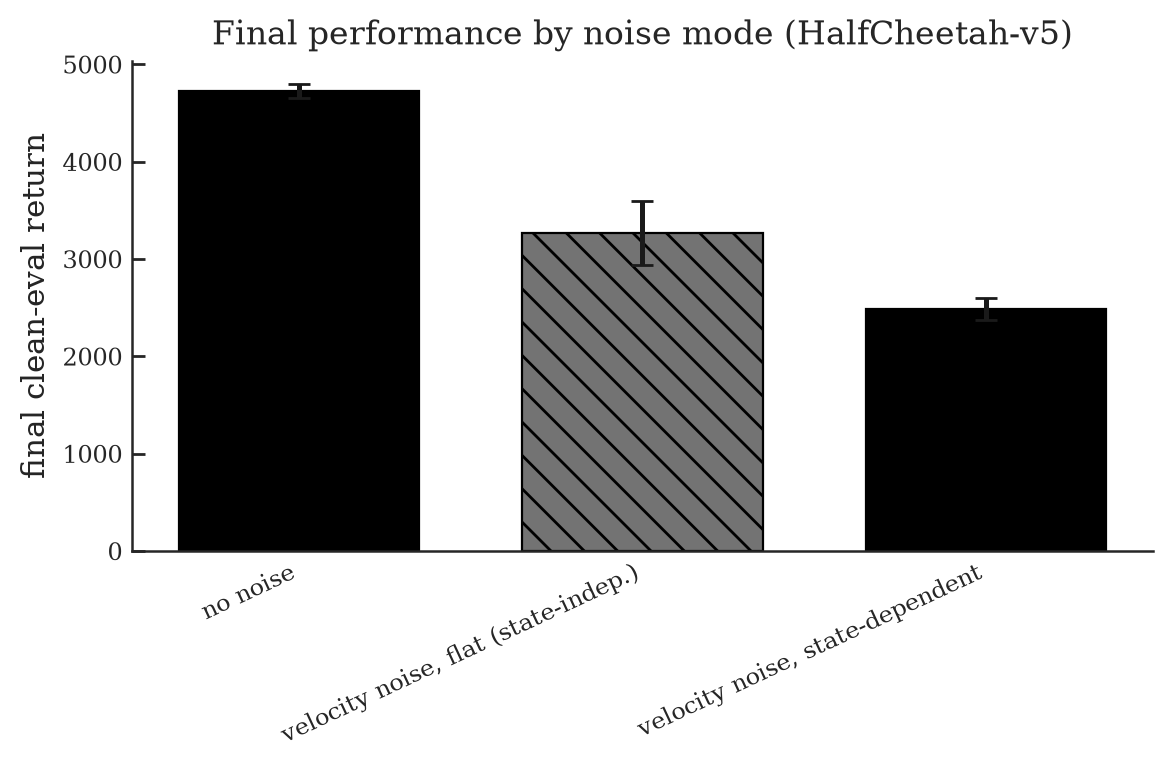
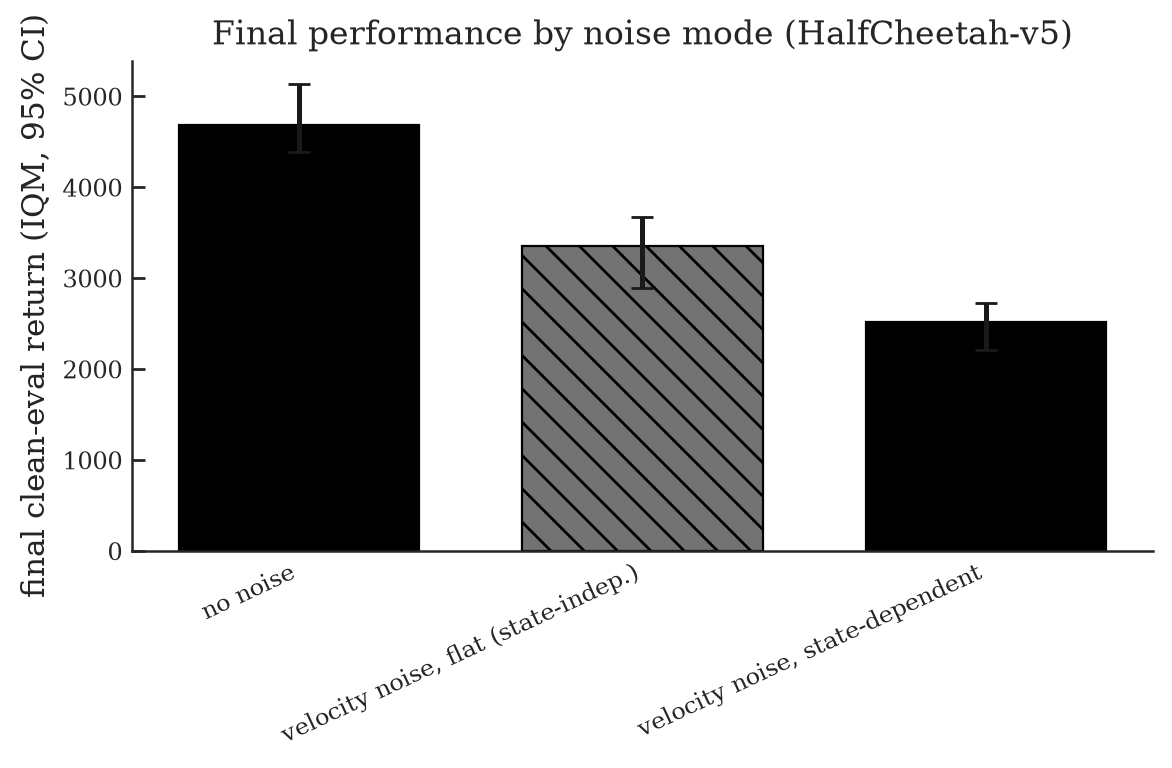
feat: position + 2x2 state-dependence experiments, IQM/bootstrap-CI eval
- Generalize velocity_isolation -> channel_isolation (position + velocity), fix a
  matched-energy confound by excluding non-stationary root-pose channels
- Add combined_isolation for the 2x2 both-sensors design (both-ff/sf/fs/ss)
- Add stats.py (IQM + bootstrap CI) with honest small-n labelling; audit-driven
- Add Evaluation Protocol section; rerun state-dependence at 8 seeds
- Findings: velocity timing significant (72->54%), position negligible, no compounding

diff --git a/src/stochrl/presets.py b/src/stochrl/presets.py
@@ -72,57 +72,100 @@ def realistic_sensors(stats: SignalStats, rho: float = 0.05, n_pos: int | None =
     return N.NoiseModel(dim, scale, specs, record=record)
 
 
-def _speed_gain_fn(vel_idx, vel_scale):
-    """gain(state) = 0.5 + |velocity| / signal_scale, per velocity channel."""
+def _deflection_gain(idx, scale, center):
+    """gain(state) = 0.5 + |x - center| / signal_scale, per channel.
+
+    Concentrates noise where a channel deviates most from its typical value:
+    fast motion for velocities (center ~ 0), large deflections for positions.
+    """
+    idx, scale, center = list(idx), np.asarray(scale), np.asarray(center)
+
     def gain_fn(ref):
-        return 0.5 + np.abs(np.asarray(ref)[vel_idx]) / vel_scale
+        return 0.5 + np.abs(np.asarray(ref)[idx] - center) / scale
     return gain_fn
 
 
-def measure_matched_gain(env, vel_idx, vel_scale, steps=10_000, seed=0):
-    """RMS of the state-dependent speed gain over a random rollout, per channel.
+def _matched_constant_gain(env, gain_fn, n, steps=10_000, seed=0):
+    """RMS of a state-dependent gain over a random rollout, per channel.
 
-    Used to build a state-INDEPENDENT noise with the SAME average injected variance:
-    injected var per step ~ (rho*scale*gain)^2, so a constant gain c = sqrt(E[gain^2])
-    matches the time-averaged variance of the state-dependent version exactly.
+    Lets a state-INDEPENDENT ('flat') noise match the state-dependent one's average
+    injected variance: injected var per step ~ (rho*scale*gain)^2, so a constant
+    gain c = sqrt(E[gain^2]) reproduces the time-averaged variance exactly. The two
+    then differ only in *where* the noise lands, not in how much.
     """
     obs, _ = env.reset(seed=seed)
     env.action_space.seed(seed)
-    gain_fn = _speed_gain_fn(vel_idx, vel_scale)
-    acc, n = np.zeros(len(vel_idx)), 0
+    acc, count = np.zeros(n), 0
     for _ in range(steps):
         obs, _, term, trunc, _ = env.step(env.action_space.sample())
         acc += gain_fn(obs) ** 2
-        n += 1
+        count += 1
         if term or trunc:
             obs, _ = env.reset()
-    return np.sqrt(acc / n)
+    return np.sqrt(acc / count)
 
 
-def velocity_isolation(stats: SignalStats, rho: float, env_id: str, mode: str,
-                       calib_steps: int = 10_000, calib_seed: int = 0,
-                       record: bool = False) -> N.NoiseModel:
-    """Isolate the EFFECT of state-dependence: identical Gaussian noise on the
-    velocity channels, either spread evenly (vel-flat) or concentrated at high
-    speed (vel-statedep), at MATCHED average injected variance.
+def channel_isolation(stats: SignalStats, rho: float, env_id: str, mode: str,
+                      calib_steps: int = 10_000, calib_seed: int = 0, n_pos: int | None = None,
+                      n_root_pos: int = 2, record: bool = False) -> N.NoiseModel:
+    """State-dependence isolation on one channel group, at matched noise energy.
 
-    The only difference between the two is *where* the noise lands, so any learning
-    difference is attributable to state-dependence, not to total noise amount.
+    Applies identical calibrated Gaussian noise to either the position or velocity
+    channels, placed either evenly ('*-flat') or concentrated where the channel
+    deviates most from its typical value ('*-statedep'). Flat and statedep inject the
+    same average variance (matched via `_matched_constant_gain`), so any learning gap
+    is attributable to *where* the noise lands, not to how much.
+
+    Position noise targets the joint-angle sensors only, skipping the first
+    `n_root_pos` channels (root height/pitch): under a random policy those are
+    non-stationary, so their calibration mean doesn't transfer and would break the
+    matched-energy control. (For planar MuJoCo — HalfCheetah/Hopper/Walker — the root
+    pose is the first 2 observation channels.)
+
+    mode: 'vel-flat' | 'vel-statedep' | 'pos-flat' | 'pos-statedep'
+      velocity rule: noisier when moving fast; position rule: noisier at large deflection.
     """
     dim = len(stats.std)
-    n_pos = dim // 2
-    vel_idx = list(range(n_pos, dim))
-    vel_scale = stats.scale[vel_idx]
+    n_pos = dim // 2 if n_pos is None else n_pos
+    group, kind = mode.split("-")
+    idx = list(range(n_root_pos, n_pos)) if group == "pos" else list(range(n_pos, dim))
+    if not idx or kind not in ("flat", "statedep") or group not in ("pos", "vel"):
+        raise ValueError(f"unknown isolation mode: {mode}")
 
-    if mode == "vel-statedep":
-        gain_fn = _speed_gain_fn(vel_idx, vel_scale)
-    elif mode == "vel-flat":
-        c = measure_matched_gain(gym.make(env_id), vel_idx, vel_scale, calib_steps, calib_seed)
+    gain_fn = _deflection_gain(idx, stats.scale[idx], stats.mean[idx])
+    if kind == "flat":
+        c = _matched_constant_gain(gym.make(env_id), gain_fn, len(idx), calib_steps, calib_seed)
         gain_fn = lambda ref: c  # constant, matched to RMS of the state-dependent gain
-    else:
-        raise ValueError(f"unknown velocity-isolation mode: {mode}")
 
-    specs = [N.ChannelNoise(vel_idx, N.Gaussian(relative=rho), gain_fn=gain_fn)]
+    specs = [N.ChannelNoise(idx, N.Gaussian(relative=rho), gain_fn=gain_fn)]
+    return N.NoiseModel(dim, stats.scale, specs, record=record)
+
+
+def _const_gain(c):
+    """Constant (state-independent) gain, with c bound at definition time."""
+    return lambda ref: c
+
+
+def combined_isolation(stats: SignalStats, rho: float, env_id: str, vel_kind: str, pos_kind: str,
+                       calib_steps: int = 10_000, calib_seed: int = 0, n_pos: int | None = None,
+                       n_root_pos: int = 2, record: bool = False) -> N.NoiseModel:
+    """Noise on BOTH velocity and (joint) position channels at once, each independently
+    'flat' or 'statedep', at matched per-group energy. Tests whether state-dependence on
+    the two groups interacts — only the timing per group changes, not the amount.
+    """
+    dim = len(stats.std)
+    n_pos = dim // 2 if n_pos is None else n_pos
+    groups = [("vel", list(range(n_pos, dim)), vel_kind),
+              ("pos", list(range(n_root_pos, n_pos)), pos_kind)]
+    specs = []
+    for _, idx, kind in groups:
+        gain_fn = _deflection_gain(idx, stats.scale[idx], stats.mean[idx])
+        if kind == "flat":
+            gain_fn = _const_gain(_matched_constant_gain(gym.make(env_id), gain_fn, len(idx),
+                                                         calib_steps, calib_seed))
+        elif kind != "statedep":
+            raise ValueError(f"kind must be flat|statedep, got {kind}")
+        specs.append(N.ChannelNoise(idx, N.Gaussian(relative=rho), gain_fn=gain_fn))
     return N.NoiseModel(dim, stats.scale, specs, record=record)
 
 

diff --git a/src/stochrl/stats.py b/src/stochrl/stats.py
@@ -1,0 +1,45 @@
+"""Aggregate statistics for RL evaluation (Agarwal et al., 2021, "rliable").
+
+Point estimates use the interquartile mean (IQM) — the mean of the middle 50% of
+runs — which is far less sensitive to outlier seeds than the mean and more
+efficient than the median. Uncertainty is a percentile bootstrap confidence
+interval over seeds. With few seeds the IQM degrades gracefully to the mean and
+the CI is (honestly) wide.
+"""
+
+from __future__ import annotations
+
+import numpy as np
+
+
+def iqm(x) -> float:
+    """Interquartile mean: mean of the middle 50% of values (trims 25% each tail)."""
+    x = np.sort(np.asarray(x, dtype=float))
+    n = len(x)
+    k = int(n * 0.25)  # integer trim; for n < 4 this is 0 -> plain mean
+    core = x[k:n - k] if n - 2 * k > 0 else x
+    return float(np.mean(core))
+
+
+def estimator_name(n: int) -> str:
+    """What iqm() actually computes for n samples: 'IQM' once it trims (n>=4), else 'mean'.
+
+    Lets callers label figures honestly instead of claiming IQM when it reduces to
+    the plain mean at small n.
+    """
+    return "IQM" if int(n * 0.25) >= 1 else "mean"
+
+
+def bootstrap_ci(x, agg=iqm, reps: int = 10_000, alpha: float = 0.05, seed: int = 0):
+    """Percentile bootstrap CI for an aggregate over samples (seeds).
+
+    Returns (point_estimate, ci_low, ci_high) at the (1-alpha) level. Note: the
+    percentile bootstrap is anti-conservative at small n (empirically ~75% coverage
+    at n=3, ~90% at n=10 for a nominal 95% interval); treat CIs as indicative until
+    seeds are plentiful (>=~10).
+    """
+    x = np.asarray(x, dtype=float)
+    rng = np.random.default_rng(seed)
+    boots = np.array([agg(rng.choice(x, size=len(x), replace=True)) for _ in range(reps)])
+    lo, hi = np.percentile(boots, [100 * alpha / 2, 100 * (1 - alpha / 2)])
+    return agg(x), float(lo), float(hi)

diff --git a/scripts/plot_results.py b/scripts/plot_results.py
@@ -19,9 +19,12 @@ import numpy as np
 import tyro
 
 from stochrl.plotting import finish, set_style, style
+from stochrl.stats import bootstrap_ci, estimator_name
 
 # Plot modes in this canonical order when present.
-ORDER = ["none", "uniform", "uniform-calibrated", "realistic", "vel-flat", "vel-statedep"]
+ORDER = ["none", "uniform", "uniform-calibrated", "realistic",
+         "vel-flat", "vel-statedep", "pos-flat", "pos-statedep",
+         "both-ff", "both-sf", "both-fs", "both-ss"]
 
 
 def load(manifest_path):
@@ -57,14 +60,14 @@ def main(outdir: str = "results", figdir: str = "figures", prefix: str = "benchm
 
     # ---- Learning curves ---------------------------------------------------- #
     fig, ax = plt.subplots(figsize=(6.4, 4.2))
-    table = []
+    finals = []  # (mode, per-seed final returns)
     for mode in modes:
         shade, ls, marker, _, label = style(mode)
         grid, mat = stack_on_common_grid(by_mode[mode])
         mean, sd = mat.mean(0), mat.std(0)
         ax.plot(grid, mean, color=shade, ls=ls, marker=marker, markevery=2, label=label)
         ax.fill_between(grid, mean - sd, mean + sd, color=shade, alpha=0.12, lw=0)
-        table.append((mode, mat[:, -1].mean(), mat[:, -1].std(), mat.shape[0]))
+        finals.append((mode, mat[:, -1]))
     ax.set(xlabel="environment steps", ylabel="clean-eval episodic return")
     ax.set_title(f"SAC on {manifest['args']['env_id']} under observation noise "
                  fr"($\rho={manifest['args']['rho']}$, mean$\pm$std over seeds)")
@@ -72,27 +75,29 @@ def main(outdir: str = "results", figdir: str = "figures", prefix: str = "benchm
     finish(fig, ax)
     fig.savefig(f"{figdir}/{prefix}_curves.png")
 
-    # ---- Final-performance bar chart ---------------------------------------- #
+    # ---- Final performance: IQM + 95% bootstrap CI over seeds --------------- #
+    summary = [(mode, *bootstrap_ci(f), len(f)) for mode, f in finals]
+    est = estimator_name(min(s[4] for s in summary)) if summary else "IQM"
     fig, ax = plt.subplots(figsize=(6.0, 4.0))
-    for i, (mode, mean, sd, _) in enumerate(table):
+    for i, (mode, pt, lo, hi, _) in enumerate(summary):
         shade, _, _, hatch, _ = style(mode)
-        ax.bar(i, mean, yerr=sd, color=shade, edgecolor="black", hatch=hatch,
-               capsize=4, width=0.7)
-    ax.set_xticks(range(len(table)))
-    ax.set_xticklabels([style(t[0])[4] for t in table], rotation=25, ha="right")
-    ax.set(ylabel="final clean-eval return")
+        ax.bar(i, pt, yerr=[[pt - lo], [hi - pt]], color=shade, edgecolor="black",
+               hatch=hatch, capsize=4, width=0.7)
+    ax.set_xticks(range(len(summary)))
+    ax.set_xticklabels([style(s[0])[4] for s in summary], rotation=25, ha="right")
+    ax.set(ylabel=f"final clean-eval return ({est}, 95% CI)")
     ax.set_title(f"Final performance by noise mode ({manifest['args']['env_id']})")
     finish(fig, ax)
     fig.savefig(f"{figdir}/{prefix}_final.png")
 
     # ---- Console table ------------------------------------------------------ #
-    base = next((t[1] for t in table if t[0] == "none"), None)
+    base = next((s[1] for s in summary if s[0] == "none"), None)
     print(f"\nResults — {manifest['args']['env_id']}, rho={manifest['args']['rho']}, "
-          f"{manifest['args']['total_timesteps']} steps:\n")
-    print(f"  {'mode':24s} {'final return':>14s} {'+/- std':>10s} {'seeds':>6s} {'vs clean':>10s}")
-    for mode, mean, sd, n in table:
-        rel = f"{100 * mean / base:4.0f}%" if base else "n/a"
-        print(f"  {mode:24s} {mean:14.0f} {sd:10.0f} {n:6d} {rel:>10s}")
+          f"{manifest['args']['total_timesteps']} steps ({est} [95% CI] over seeds):\n")
+    print(f"  {'mode':24s} {est:>8s} {'95% CI':>18s} {'seeds':>6s} {'vs clean':>9s}")
+    for mode, pt, lo, hi, n in summary:
+        rel = f"{100 * pt / base:4.0f}%" if base else "n/a"
+        print(f"  {mode:24s} {pt:8.0f} {f'[{lo:.0f}, {hi:.0f}]':>18s} {n:6d} {rel:>9s}")
     print(f"\nSaved {figdir}/{prefix}_curves.png and {figdir}/{prefix}_final.png")
 
 

diff --git a/scripts/sac_continuous_action.py b/scripts/sac_continuous_action.py
@@ -84,9 +84,15 @@ def build_noise(env, args, seed):
         stats = collect_signal_stats(gym.make(args.env_id), steps=args.calib_steps, seed=args.calib_seed)
         if args.noise_mode == "realistic":
             model = presets.realistic_sensors(stats, rho=args.rho)
-        elif args.noise_mode in ("vel-flat", "vel-statedep"):
-            model = presets.velocity_isolation(
+        elif args.noise_mode in ("vel-flat", "vel-statedep", "pos-flat", "pos-statedep"):
+            model = presets.channel_isolation(
                 stats, args.rho, args.env_id, args.noise_mode, args.calib_steps, args.calib_seed)
+        elif args.noise_mode.startswith("both-"):
+            kinds = {"f": "flat", "s": "statedep"}
+            code = args.noise_mode.split("-")[1]  # e.g. 'sf' -> vel=statedep, pos=flat
+            model = presets.combined_isolation(
+                stats, args.rho, args.env_id, kinds[code[0]], kinds[code[1]],
+                args.calib_steps, args.calib_seed)
         else:
             model = presets.uniform_gaussian(
                 stats, rho=args.rho, calibrated=(args.noise_mode == "uniform-calibrated"))

diff --git a/src/stochrl/plotting.py b/src/stochrl/plotting.py
@@ -20,6 +20,12 @@ MODE_STYLE = {
     "realistic":          ("0.10", "-.", "D", "xx",  "realistic (structured)"),
     "vel-flat":           ("0.45", "--", "s", "\\\\", "velocity noise, flat (state-indep.)"),
     "vel-statedep":       ("0.0",  "-",  "D", "xx",  "velocity noise, state-dependent"),
+    "pos-flat":           ("0.45", "--", "s", "\\\\", "position noise, flat (state-indep.)"),
+    "pos-statedep":       ("0.0",  "-",  "D", "xx",  "position noise, state-dependent"),
+    "both-ff":            ("0.55", "--", "s", "//",  "both flat"),
+    "both-sf":            ("0.30", ":",  "^", "..",  "velocity state-dep, position flat"),
+    "both-fs":            ("0.15", "-.", "v", "\\\\", "velocity flat, position state-dep"),
+    "both-ss":            ("0.0",  "-",  "D", "xx",  "both state-dependent"),
 }
 
 

diff --git a/README.md b/README.md
@@ -88,6 +88,30 @@ flat uniform noise:
   Swapping the literal CleanRL code in reproduced earlier results bit-for-bit,
   confirming the baseline was a faithful reproduction.
 
+### Evaluation protocol
+
+- **Metric.** Episodic return of the *deterministic* (mean-action) policy, averaged
+  over N episodes on a **clean, noise-free** copy of the environment. Training runs
+  under noise; evaluation never does — this separates *learning damage* (did noise
+  corrupt what was learned?) from an *execution handicap* (is the agent merely blind
+  at test time?). Only clean evaluation isolates the former.
+- **Aggregation.** Per mode we report the **interquartile mean (IQM)** across seeds
+  with a **95% percentile-bootstrap CI** (Agarwal et al., 2021) rather than mean±std:
+  IQM down-weights outlier seeds and the CI states uncertainty directly. IQM only
+  trims at ≥4 seeds; below that it reduces to the mean and figures are labelled
+  "mean" accordingly (no false robustness claim).
+- **Seed count & CI honesty.** Percentile bootstrap CIs are anti-conservative at
+  small n (≈75% real coverage at n=3, ≈90% at n=10 for a nominal 95% interval). The
+  state-dependence experiments (§4b) use **8 seeds** (IQM trims the middle 4); the
+  noise-mode (§4a) and `rho` (§4c) sweeps use 3 (labelled "mean", to be scaled).
+  Treat CIs as indicative until seeds are plentiful.
+- **Controls.** All modes share seeds; a single **fixed calibration** (not the
+  training seed) sets the per-channel scale; state-dependence experiments **match
+  average injected variance** between flat and statedep so only *placement* differs;
+  observation / action / calibration draw from independent RNG streams.
+- **Significance.** A difference is called meaningful only when the 95% CIs do not
+  overlap; everything else is reported as a trend.
+
 ---
 
 ## 4. Results
@@ -108,29 +132,52 @@ flat uniform noise:
    (49%) and `uniform-calibrated` (45%) overlap within seed variance, raising the
    question §4b answers directly.
 
-### 4b. Does *where* the noise lands matter? (state-dependence, isolated)
+### 4b. Does *where* the noise lands matter? (state-dependence)
 
-To test state-dependence on its own, two settings put the **same total noise** on
-the velocity channels, differing only in placement: `vel-flat` spreads it evenly;
-`vel-statedep` concentrates it at high speed (matched average variance, verified
-within 2%).
+Each experiment puts the **same total noise** on a sensor group, differing only in
+*placement*: `flat` spreads it evenly over time; `statedep` concentrates it where the
+channel deviates most from typical (matched average variance, verified to ~1%). All
+state-dependence runs use **8 seeds** with IQM + 95% bootstrap CI.
 
-![State-dependence isolation](assets/statedep_curves.png)
+**Velocity sensors — placement matters, significantly:**
 
-| Setting | Final clean-eval return | vs. clean |
+![Velocity state-dependence](assets/statedep_curves.png)
+
+| velocity noise | IQM | 95% CI | vs. clean |
+|---|---:|---:|---:|
+| flat | 3355 | [2895, 3671] | 72% |
+| state-dependent | 2523 | [2215, 2724] | 54% |
+
+Concentrating the same noise at high-speed moments costs SAC ~18 points (72% → 54%),
+and the **CIs do not overlap** — a genuine effect, not seed noise.
+
+**Position (joint-angle) sensors — barely matters:**
+
+![Position state-dependence](assets/statedep_pos_curves.png)
+
+| position noise | IQM | 95% CI | vs. clean |
+|---|---:|---:|---:|
+| flat | 4329 | [3885, 4812] | 92% |
+| state-dependent | 4184 | [3989, 4499] | 89% |
+
+Position noise hardly dents performance, and flat vs state-dependent overlap.
+→ **Velocity sensing is the vulnerability; position sensing is robust.**
+
+**Both groups noisy at once (2×2) — which timing drives it?**
+
+![Both-sensor 2x2](assets/both_final.png)
+
+| both sensors noisy | IQM | vs. clean |
 |---|---:|---:|
-| `none` | 4726 ± 68 | 100% |
-| `vel-flat` (noise spread evenly) | 3269 ± 327 | 69% |
-| `vel-statedep` (noise concentrated at high speed) | 2489 ± 112 | 53% |
+| both flat | 3252 | 69% |
+| **velocity** state-dep, position flat | 2542 | 54% |
+| velocity flat, **position** state-dep | 2842 | 61% |
+| both state-dependent | 2522 | 54% |
 
-**Yes — placement matters, decisively.** With the *same total noise*, concentrating
-it on the high-speed (dynamically critical) states costs SAC ~16 points more than
-spreading it evenly (53% vs 69% of clean). Unlike the §4a rankings, this gap is
-robust: the std bands don't overlap, and `vel-statedep` is remarkably consistent
-across seeds (±112). So **state-dependence is a real, separable effect that
-per-channel calibration alone does not capture** — it earns its place as a benchmark
-axis. (This is the direct answer to "should noise depend on the state?": for *where*
-it hurts most, yes.)
+**Velocity timing dominates.** Adding state-dependence to velocity drops 69% → 54%;
+adding it to position only reaches 61%; doing both (54%) is no worse than velocity
+alone — the effects **don't compound**. The message is consistent across all three:
+*state-dependence matters where the sensor matters, and that's velocity.*
 
 ### 4c. How damage scales with noise level
 